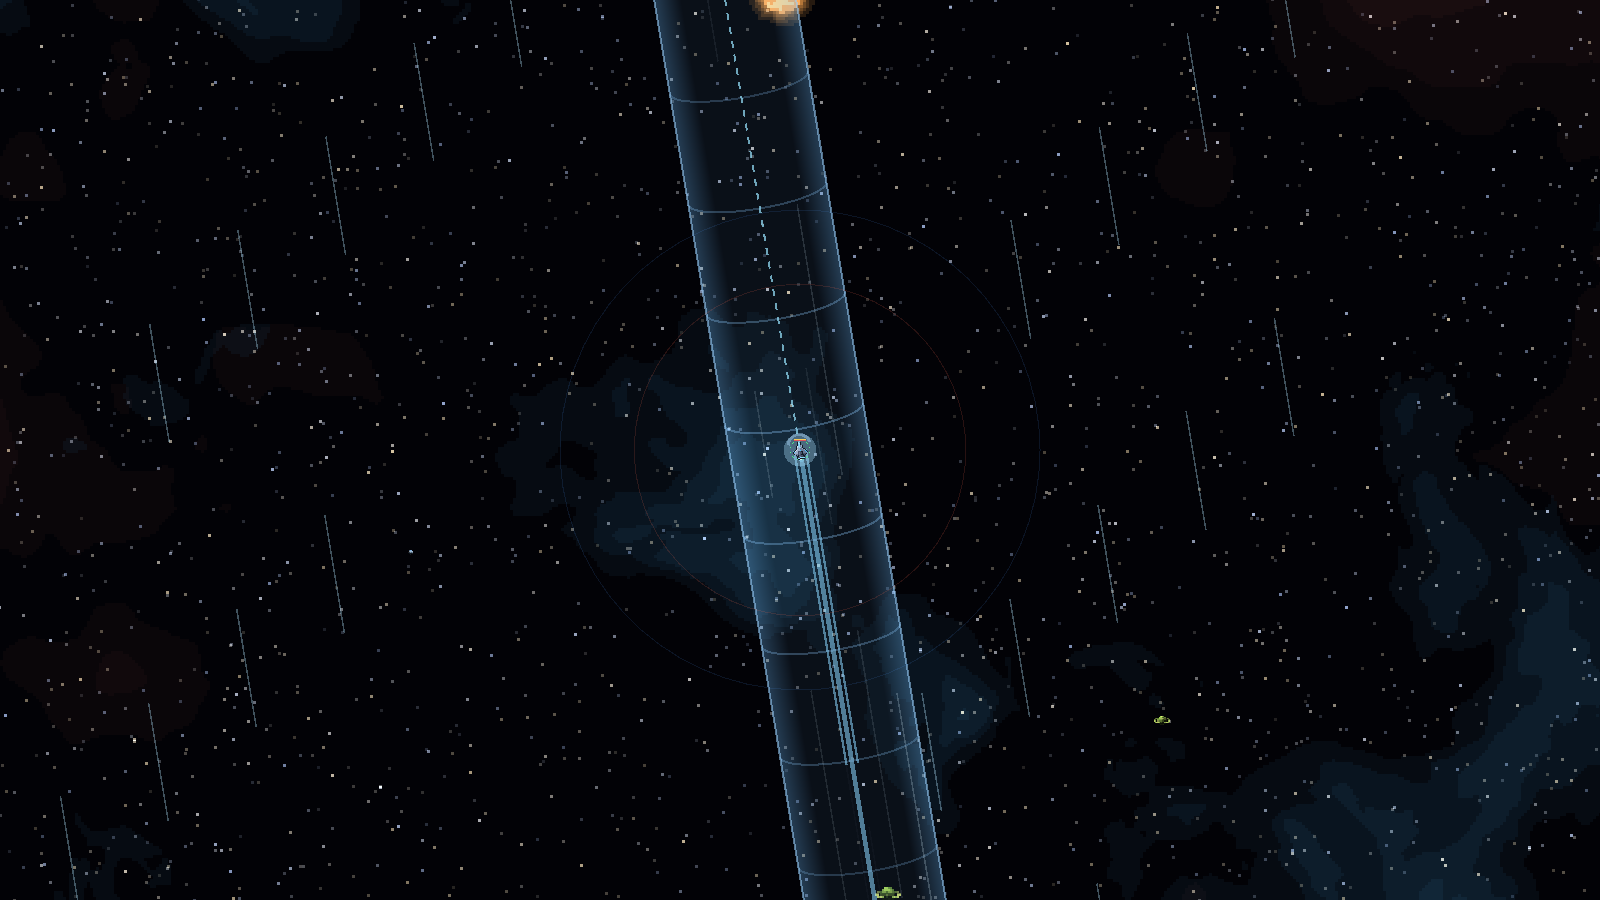
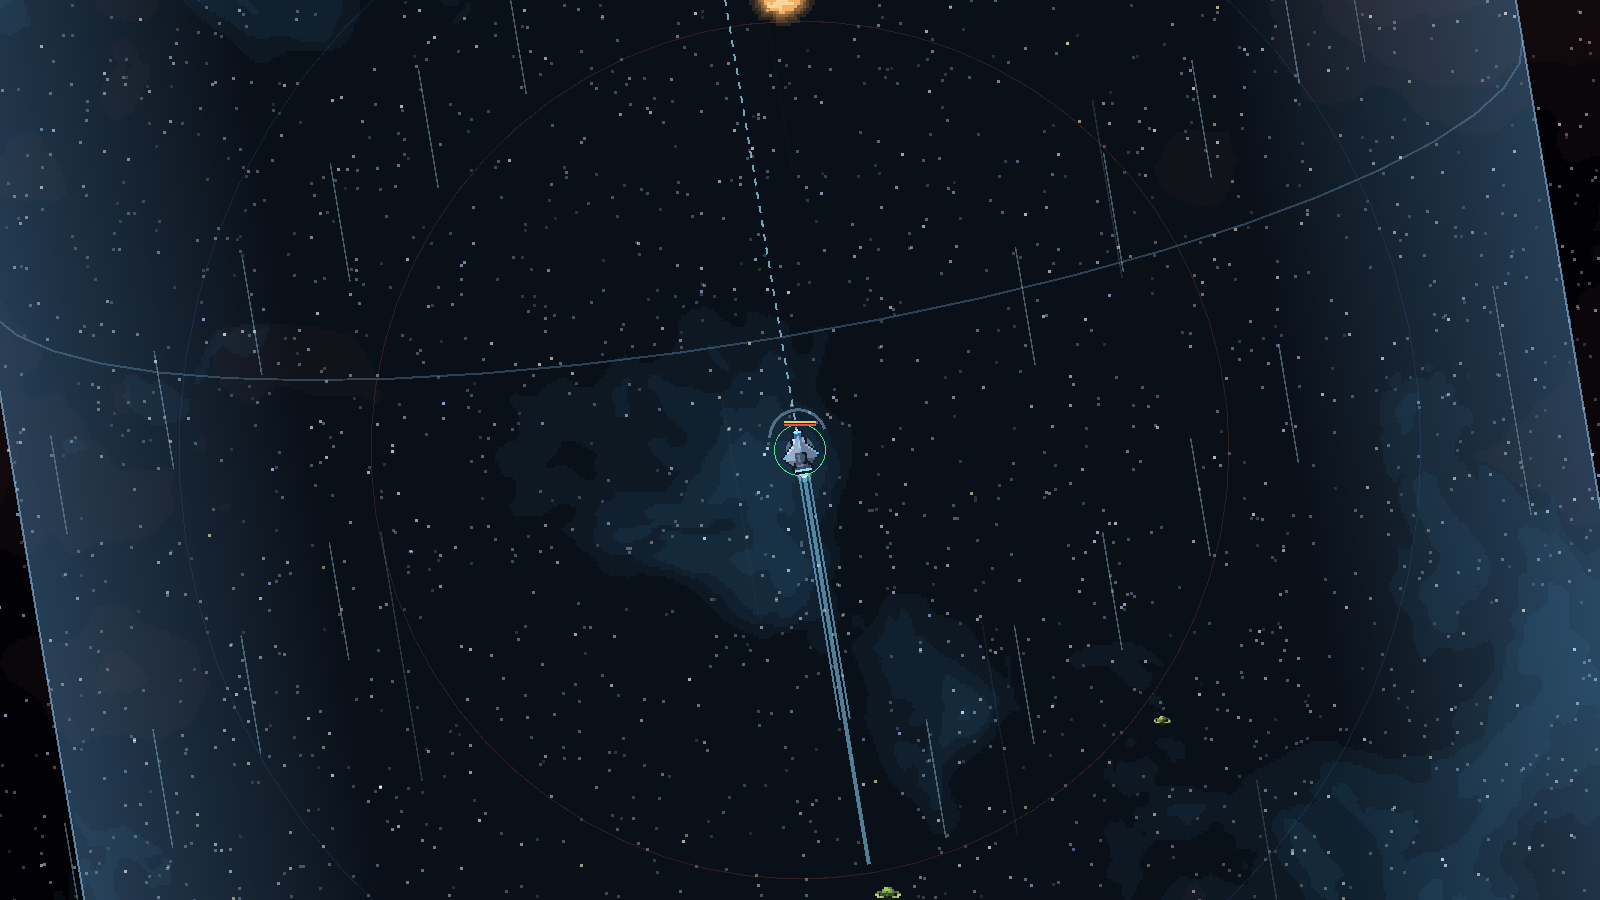
alpha 0.6.35.9: warp tunnel of fixed size, centred on the formation lead

diff --git a/Roadmap.md b/Roadmap.md
@@ -17,7 +17,7 @@ Sternenfront ist ein Einzelspieler-Spiel mit zuschaltbarem Koop – wie Valheim 
 
 ## Aktueller Stand
 
-Das Spiel ist ein umfangreicher Einzelspieler-Prototyp in Godot 4.3. Phase 0 und Phase 0.5 Teil 1 bis 3 sind abgeschlossen; Teil 4 (Module and Internal Ship Parts Rework) läuft – Pakete 19 bis 24 fertig, Pakete 25a (KHI-Bergbauschiffe), 25b (Kanayama-maru), 25c (Maison Aurelle), 25d (Hadrian Dynamics), 25e (Concord Fleetworks), 25f (Forge of Return) und 25g (Axiom Astronautics) fertig – damit sind alle Manufakturen gebaut; Paket 26 (Stationstyp 0: Raststationen mit Landeplattformen) fertig; Paket 27 (Stationsübersicht, Ausrüster, Kurzbeschreibungen, Geschwindigkeit) fertig – damit sind alle Pakete von Teil 4 umgesetzt. Code-Review von Teil 4 gemacht (Bericht `reviews/teil4_review.md`), alle Befunde sind abgearbeitet (0.4.25.46 und 0.4.25.47) – Teil 4 abgeschlossen. **Teil 5 läuft:** Paket 28a (Audio-Grundgerüst), die Menüsteuerung per Tastatur und Paket 28 (Pilot & Charaktererstellung) und Paket 29 (Fähigkeiten + Pilot-Fenster) fertig, Fortschritts-Mechanik am 7. Nov neu entschieden (Fähigkeiten automatisch, Pilotenlevel, Perks, Skilltree über Leistungen); Paket 30 (Perks, Skilltree über Leistungen, Baupläne) fertig und der Skilltree in 0.5.30.2 als gezeichneter Baum nach Tätigkeiten neu gebaut (alles kaufbar, nutzbar erst mit Kachel), Paket 31 (Crew-System & The Bar, mit 32 zusammengelegt) fertig, Paket 31a (Game Over: Rettungskapseln, Rückkauf, Respawn) fertig, Paket 33 (Wingmen und Citadel-Plattform) fertig, Paket 34 (Codex-Einträge, Sammlung, berüchtigte Piraten als Charaktere mit Wild-West-Steckbrief) fertig – damit sind alle Pakete von Teil 5 umgesetzt. Code-Review von Teil 5 gemacht (Bericht `reviews/teil5_review.md`), alle Befunde in 0.5.34.4 behoben – **Teil 5 abgeschlossen**. **Teil 6 läuft:** Paket 35 (Systeme ×3, Asteroiden- und Kuipergürtel, neue Asteroidenfelder, mehr Verkehr, Ladebildschirm und Vorladen) fertig. Netzwerk fehlt noch. Teile 5–9 sind geplant (aus dem Roadmap-Entwurf übernommen, zuletzt am 7. Nov 2026: Teile 8 und 9, Audio-Grundgerüst 28a, Lade-Grundlagen in Paket 35, Code-Review am Ende jedes Teils), Phase 1 und 2 getauscht (erst Story & Endgame, dann Koop). Version alpha 0.6.35.8. Stand 8. November 2026.
+Das Spiel ist ein umfangreicher Einzelspieler-Prototyp in Godot 4.3. Phase 0 und Phase 0.5 Teil 1 bis 3 sind abgeschlossen; Teil 4 (Module and Internal Ship Parts Rework) läuft – Pakete 19 bis 24 fertig, Pakete 25a (KHI-Bergbauschiffe), 25b (Kanayama-maru), 25c (Maison Aurelle), 25d (Hadrian Dynamics), 25e (Concord Fleetworks), 25f (Forge of Return) und 25g (Axiom Astronautics) fertig – damit sind alle Manufakturen gebaut; Paket 26 (Stationstyp 0: Raststationen mit Landeplattformen) fertig; Paket 27 (Stationsübersicht, Ausrüster, Kurzbeschreibungen, Geschwindigkeit) fertig – damit sind alle Pakete von Teil 4 umgesetzt. Code-Review von Teil 4 gemacht (Bericht `reviews/teil4_review.md`), alle Befunde sind abgearbeitet (0.4.25.46 und 0.4.25.47) – Teil 4 abgeschlossen. **Teil 5 läuft:** Paket 28a (Audio-Grundgerüst), die Menüsteuerung per Tastatur und Paket 28 (Pilot & Charaktererstellung) und Paket 29 (Fähigkeiten + Pilot-Fenster) fertig, Fortschritts-Mechanik am 7. Nov neu entschieden (Fähigkeiten automatisch, Pilotenlevel, Perks, Skilltree über Leistungen); Paket 30 (Perks, Skilltree über Leistungen, Baupläne) fertig und der Skilltree in 0.5.30.2 als gezeichneter Baum nach Tätigkeiten neu gebaut (alles kaufbar, nutzbar erst mit Kachel), Paket 31 (Crew-System & The Bar, mit 32 zusammengelegt) fertig, Paket 31a (Game Over: Rettungskapseln, Rückkauf, Respawn) fertig, Paket 33 (Wingmen und Citadel-Plattform) fertig, Paket 34 (Codex-Einträge, Sammlung, berüchtigte Piraten als Charaktere mit Wild-West-Steckbrief) fertig – damit sind alle Pakete von Teil 5 umgesetzt. Code-Review von Teil 5 gemacht (Bericht `reviews/teil5_review.md`), alle Befunde in 0.5.34.4 behoben – **Teil 5 abgeschlossen**. **Teil 6 läuft:** Paket 35 (Systeme ×3, Asteroiden- und Kuipergürtel, neue Asteroidenfelder, mehr Verkehr, Ladebildschirm und Vorladen) fertig. Netzwerk fehlt noch. Teile 5–9 sind geplant (aus dem Roadmap-Entwurf übernommen, zuletzt am 7. Nov 2026: Teile 8 und 9, Audio-Grundgerüst 28a, Lade-Grundlagen in Paket 35, Code-Review am Ende jedes Teils), Phase 1 und 2 getauscht (erst Story & Endgame, dann Koop). Version alpha 0.6.35.9. Stand 8. November 2026.
 
 | Bereich | Stand |
 | --- | --- |
@@ -1461,7 +1461,7 @@ Jedes Paket mit eigenen Debug-Funktionen (z. B. zu jedem Systemtyp springen, Ste
 - [x] **Asteroidenfelder neu:** Metall- und Gesteinsfelder liegen **im Asteroidengürtel**, Eisfelder **im Kuipergürtel** (ohne Gürtel wie bisher in Bahnzonen). Radius 20.000–40.000 km statt 10.000–16.000, im Schnitt dichter (≈ 0,22 Brocken je 1.000 km², eng geklumpt) und in **fünf Stilen**: Clustered, Band (entlang der Bahn gestreckt), Dense Core (dichter Kern mit mehr großen Brocken), Boulder Field (wenige große) und Gravel Field (viele kleine). Der Stil steht im Feldnamen.
 - [x] **0.6.35.4 (Wunsch Luz):** Felder **kompakter und strukturierter** – Radius 12.000–22.000 km, darin viele kleine Strukturen (dichte Knoten, Haufen, Ketten) mit freien Flächen dazwischen; etwa 0,9 Brocken je 1.000 km², an manchen Stellen sehr dicht. **Mehr Colossi:** jedes Feld hat jetzt 3–5 (in gesetzlosen Systemen einen mehr), über das Feld verteilt.
 - [x] **0.6.35.5 (Wunsch Luz):** **Radarschatten** enden jetzt am Rand der Radarreichweite. **Zwei neue Colossus-Formen je Gesteinsart** (mit passendem Radarschatten): Metall – Platte und Spindel, Gestein – Geröllhaufen und Niere, Eis – Tropfen (gefrorener Komet) und Kristall mit Stacheln (seit 0.6.35.6 eine runde Eiskugel mit sanften Beulen – die Sternform war zu viel). **Colossi sind abbaubar** (sperrbar, Prospektor und Bergbaulaser, Abstand zur Oberfläche zählt): riesiger Vorrat aus zwei Erzen des Feldes; leer bleiben sie stehen und zeigen im Scanner „empty“. **Kleine Asteroiden zerbrechen**, wenn sie leer sind – die Stücke treiben auseinander und verblassen – und wachsen nach **30–60 Minuten** nach (gewichteter Zufall, kleinere eher). Leere Colossi und zerbrochene Asteroiden werden mitgespeichert.
-- [x] **0.6.35.7 – Warp (Wunsch Luz):** Die Kamera bleibt beim Warp auf **Kampfnähe** (kein automatisches Herauszoomen mehr); herauszoomen kann man jederzeit selbst. **Während des Warps ist das Radar ausgeblendet** (0.6.35.8 – in 0.6.35.7 versehentlich eingeblendet). Neue **Warp-Animation:** um das Schiff bildet sich ein **blauer, leicht durchsichtiger Tunnel** – Wände entlang des Kurses, Ringe und Streifen, die nach hinten vorbeiziehen, ein Bugleuchten; er baut sich am Anfang auf und verblasst vor der Ankunft.
+- [x] **0.6.35.7 – Warp (Wunsch Luz):** Die Kamera bleibt beim Warp auf **Kampfnähe** (kein automatisches Herauszoomen mehr); herauszoomen kann man jederzeit selbst. **Während des Warps ist das Radar ausgeblendet** (0.6.35.8 – in 0.6.35.7 versehentlich eingeblendet). Neue **Warp-Animation:** um das Schiff bildet sich ein **blauer, leicht durchsichtiger Tunnel** – Wände entlang des Kurses, Ringe und Streifen, die nach hinten vorbeiziehen, ein Bugleuchten; er baut sich am Anfang auf und verblasst vor der Ankunft. Seit 0.6.35.9 hat er eine **feste Größe** (Radius 1.300 km – nah groß genug für die ganze Formation, in Recon ein schmaler Tunnel) und ist immer auf das Schiff zentriert, das die Formation anführt.
 - [x] **Mehr Verkehr:** Shuttles, Bergbauschiffe, wartende Frachter, Feld- und Torwachen, Piraten etwa anderthalbfach; Obergrenze 60 → 90 Schiffe je System.
 - [x] **Laden:** kurzer **Ladebildschirm** beim Start aus dem Hauptmenü; dahinter werden alle Asteroidenbilder des Systems vorab erzeugt und der **Colossus-Shader vorkompiliert** – der Ruckler beim Einfliegen in Felder mit Colossi ist weg. Beim **Hypersprung** wird das Zielsystem während des Tunnels vorbereitet. Unsichtbare Asteroiden kosten keine Rechenzeit mehr.
 - [x] **0.6.35.2/.3:** Die Systemkarte ist wieder **auf das eigene Schiff zentriert** – Godots Standard-Kameragrenze von ±10 Mio. km hatte die Karte der größeren Systeme zur Seite geschoben (die kurzzeitige Zentrierung auf den Stern in 0.6.35.2 ist wieder raus).

diff --git a/CHANGELOG.md b/CHANGELOG.md
@@ -3,6 +3,10 @@
 Versions follow **alpha Phase.Teil.Paket.laufende Nummer** (see Roadmap.md → Arbeitsweise & Übergabe).
 Every update gets its own entry, a commit and a git tag `v<version>`.
 
+## alpha 0.6.35.9 – 2026-11-08
+
+**Warp tunnel:** a fixed size (1,300 km radius) – big at close range with room for the whole formation, a narrow tunnel on the recon view; always centred on the ship leading the formation.
+
 ## alpha 0.6.35.8 – 2026-11-08
 
 **Warp:** the radar is hidden during a warp (it showed in recon by mistake in 0.6.35.7).
